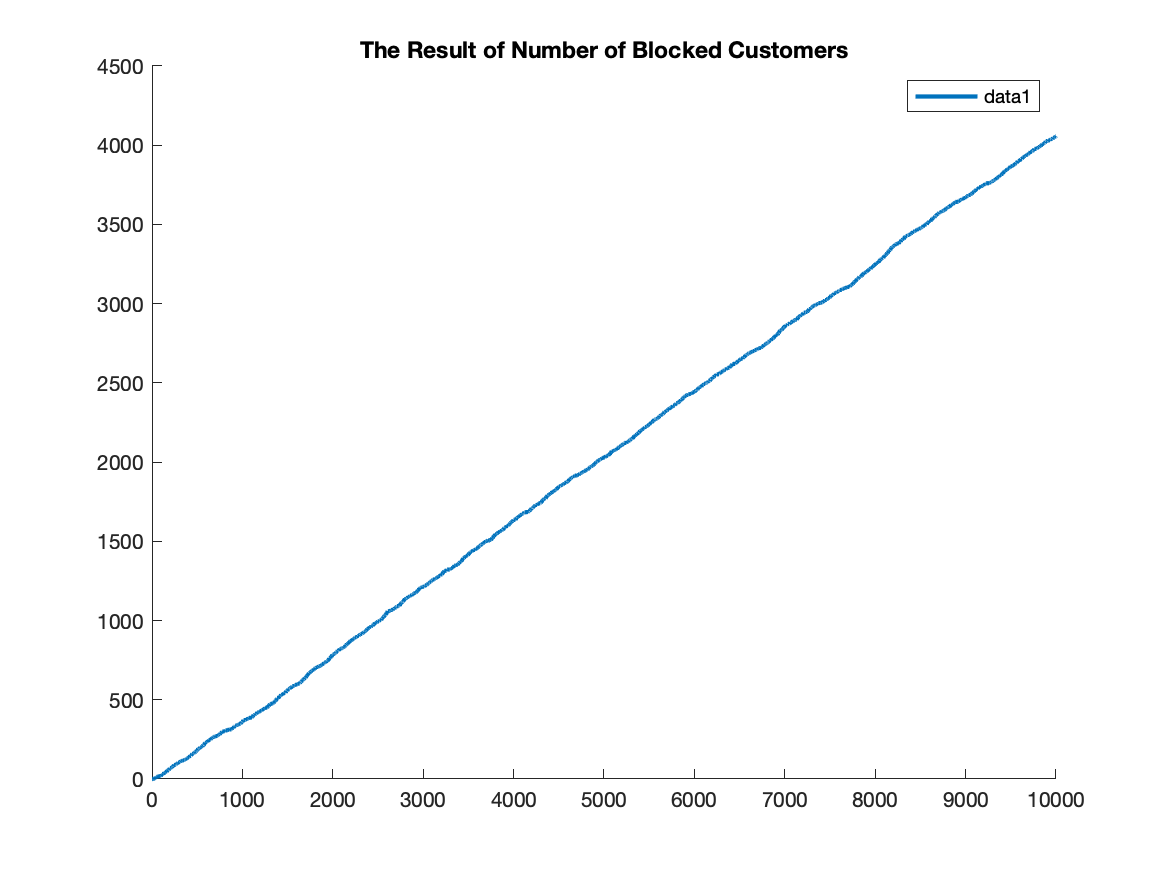
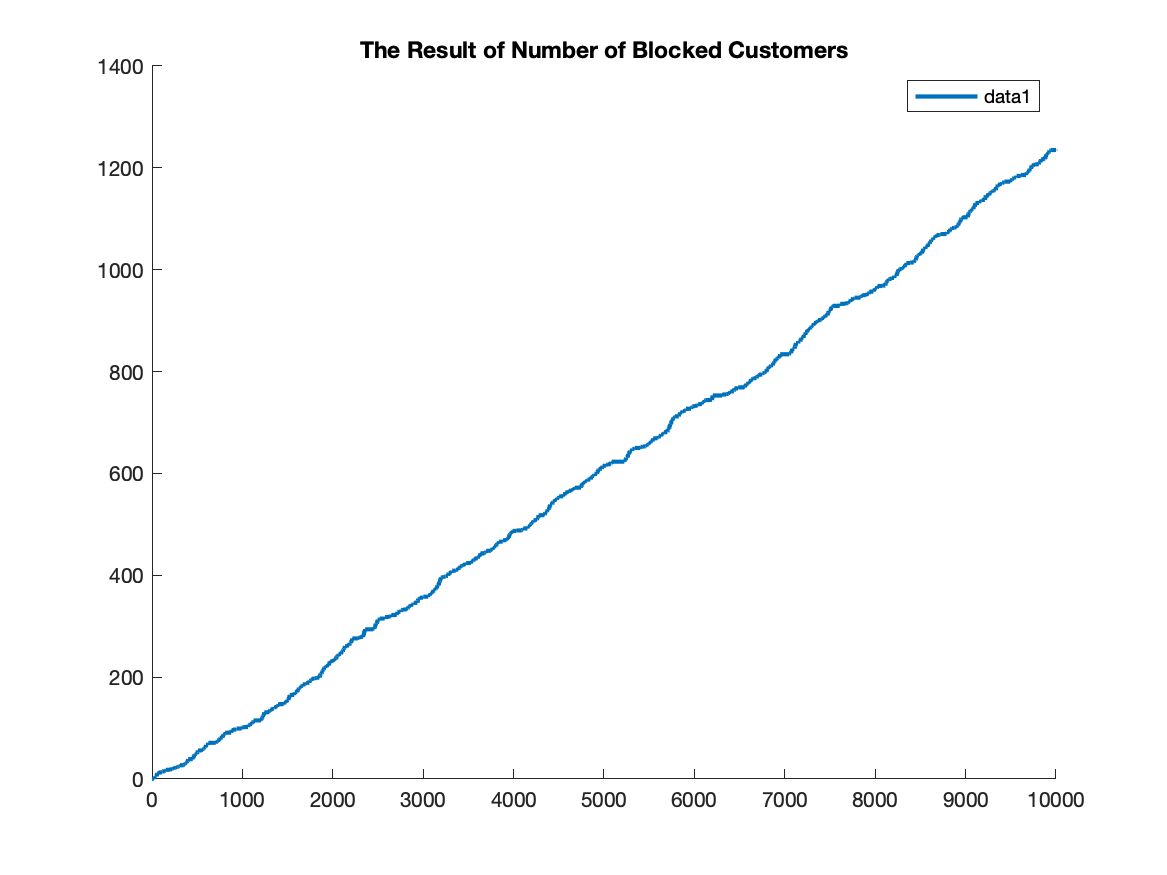
2.0

diff --git a/exercise4/setup.m b/exercise4/setup.m
@@ -1,22 +1,45 @@
 % setup file for exercise 4
 % Author: Edward J. Xu, Sanaz
 % Date: 190611
-% Version: 2.0
+% Version: 3.0
 % ######################################################################################################################
 % cd ~/Documents/GitHub/StochasticSim/exercise4
 % pwd
 addpath("~/Documents/GitHub/StochasticSim/exercise4")
 % ######################################################################################################################
+% 1,  Define Basic Parameters
 nServer = 10;
 nCustomer = 10000;  % 10000;
-lambda = 15;
-mu = 1;
-numSim = 10;
+numSim = 100;
+% 2,  Define Functions for Length of Arrival Interval and Serve Time
+whiFuncArrive = "exp";
+whiFuncServe = "exp";
+if whiFuncArrive == "exp"
+    mu = 1;
+    funcArrive = @exprnd;
+    vecParaArrive = mu;
+elseif  whiFuncArrive == "cons"
+    cons = 10;
+    funcArrive = @(cons) cons;
+    vecParaArrive = cons;
+end
+% gamrnd(nServer, 1 / nServer);
+if whiFuncServe == "exp"
+    lambda = 8;
+    funcServe = @exprnd;
+    vecParaServe = lambda;
+elseif  whiFuncServe == "cons"
+    cons = 10;
+    funcServe = @(cons) cons;
+    vecParaServe = cons;
+end
+% 3,  Begin `numSim`-Times Simulations
+nEvent = nCustomer;
 vecResultProb = zeros(numSim, 1);
 for i = 1:numSim
-    [vecResultProb(i)] = startSim(nServer, nCustomer, lambda, mu);
+    [vecResultProb(i)] = simDiscreteEvent(nServer, nEvent, funcArrive, funcServe, vecParaArrive, vecParaServe);
 end
+% 4,  Compare the Mean Value from Simualtions and Analytical Value
 fprintf("Simulation: mean(prob that the customer gets blocked) = %f.\n", mean(vecResultProb));
 [bCap] = calErlangsFormula(lambda, mu, nServer);
 fprintf("Analysis: prob that the customer gets blocked = %f.\n", bCap);
-% gamrnd(nServer, 1 / nServer)

diff --git a/exercise4/test.m b/exercise4/test.m
@@ -1,17 +1,39 @@
 % Test the functions for exercise 4
 % Author: Edward J. Xu
 % Date: 190611
-% Version: 1.0
+% Version: 2.0
 % ######################################################################################################################
-% 1,  Test if the simulation works well
+% 1,  Define Basic Parameters
 nServer = 10;
 nCustomer = 10000;  % 10000;
-lambda = 15;
-mu = 1;
-numSim = 10;
-[b, sState] = startSim(nServer, nCustomer, lambda, mu);
+% 2,  Define Functions for Length of Arrival Interval and Serve Time
+whiFuncArrive = "exp";
+whiFuncServe = "exp";
+if whiFuncArrive == "exp"
+    mu = 1;
+    funcArrive = @exprnd;
+    vecParaArrive = mu;
+elseif  whiFuncArrive == "cons"
+    cons = 10;
+    funcArrive = @(cons) cons;
+    vecParaArrive = cons;
+end
+% gamrnd(nServer, 1 / nServer);
+if whiFuncServe == "exp"
+    lambda = 8;
+    funcServe = @exprnd;
+    vecParaServe = lambda;
+elseif  whiFuncServe == "cons"
+    cons = 10;
+    funcServe = @(cons) cons;
+    vecParaServe = cons;
+end
+% 3,  Begin `numSim`-Times Simulations
+nEvent = nCustomer;
+[b, sState] = simDiscreteEvent(nServer, nEvent, funcArrive, funcServe, vecParaArrive, vecParaServe);
 plotLine([1:length([sState.nCustomerBlock])], [sState.nCustomerBlock], ...
     '2.png', "The Result of Number of Blocked Customers");
 plotScatter([1:length([sState.nCustomerServe])], [sState.nCustomerServe], ...
     '3.png', "The Result of Number of Customers being Served");
+matTimeDepart = [sState.vecTimeDepart];
 % ######################################################################################################################

diff --git a/exercise4/simDiscreteEvent.m b/exercise4/simDiscreteEvent.m
@@ -1,0 +1,29 @@
+% function file for exercise 4
+% Author: Edward J. Xu, Sanaz
+% Date: 190611
+% Version: 2.0
+% ######################################################################################################################
+function [b, sState] = simDiscreteEvent(nServer, nEvent, funcArrive, funcServe, vecParaArrive, ...
+    vecParaServe)
+    % 1,  Initiate State Variables
+    vecTimeDepart = zeros(nServer, 1);
+    nCustomerBlock = 0;
+    clockSim = 0;
+    nCustomerServe = 0;
+    % 2,  Begin Simulation
+    for i = 1:nEvent
+        % 2.1,  Next event happens: a new customer has arrived.
+        sState(i).intervalSim = funcArrive(vecParaArrive);  % non- state variable can be stored immediately.
+        clockSim = clockSim + sState(i).intervalSim;
+        % 2.2,  Evolution of State Variables
+        [nCustomerServe, nCustomerBlock, vecTimeDepart] = updateStateBlock(clockSim, nServer, nCustomerServe, ...
+            nCustomerBlock, vecTimeDepart, funcServe, vecParaServe);
+        % 2.3,  Store the result of state variables
+        sState(i).clockSim  = clockSim;
+        sState(i).vecTimeDepart = vecTimeDepart;
+        sState(i).nCustomerBlock = nCustomerBlock;
+        sState(i).nCustomerServe = nCustomerServe;
+        sState(i).b = nCustomerBlock / i;
+    end
+    b = sState(nEvent).b;
+end

diff --git a/exercise4/updateStateBlock.m b/exercise4/updateStateBlock.m
@@ -1,0 +1,28 @@
+% function file for exercise 4
+% Author: Edward J. Xu, Sanaz
+% Date: 190611
+% Version: 2.0
+% ######################################################################################################################
+function [nCustomerServe, nCustomerBlock, vecTimeDepart] = updateStateBlock(clockSim, nServer, nCustomerServe, ...
+    nCustomerBlock, vecTimeDepart, funcServe, vecParaServe)
+    nCustomerServe = nCustomerServe + 1;
+    % Check the departed customers
+    for j = 1:nServer
+        if (vecTimeDepart(j) ~= 0) & (vecTimeDepart(j) < clockSim)  % There is a customer and he/she has already left.
+            vecTimeDepart(j) = 0;  % The vacancy is set to 0.
+            nCustomerServe = nCustomerServe - 1;
+        end
+    end
+    % Check if there is a block
+    if nCustomerServe > nServer
+        nCustomerBlock = nCustomerBlock + (nCustomerServe - nServer);
+        nCustomerServe = nServer;
+    else
+        % Select the first server without a customer, assign a customer to it.
+        j = 1;
+        while vecTimeDepart(j) ~= 0
+            j = j + 1;
+        end
+        vecTimeDepart(j) = clockSim + funcServe(vecParaServe);  % Set the service time
+    end
+end  % function
